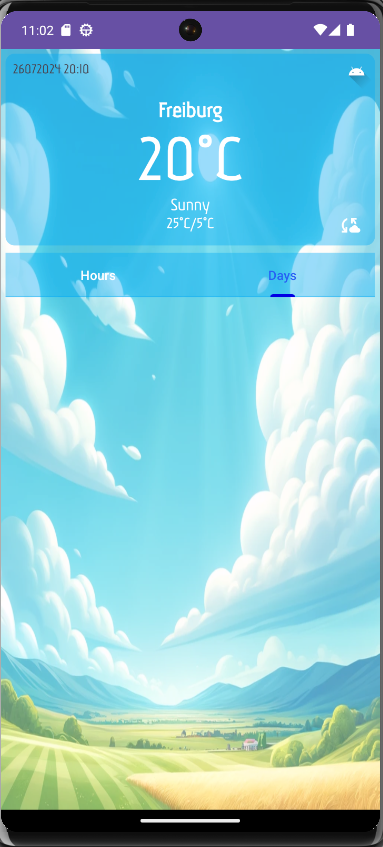
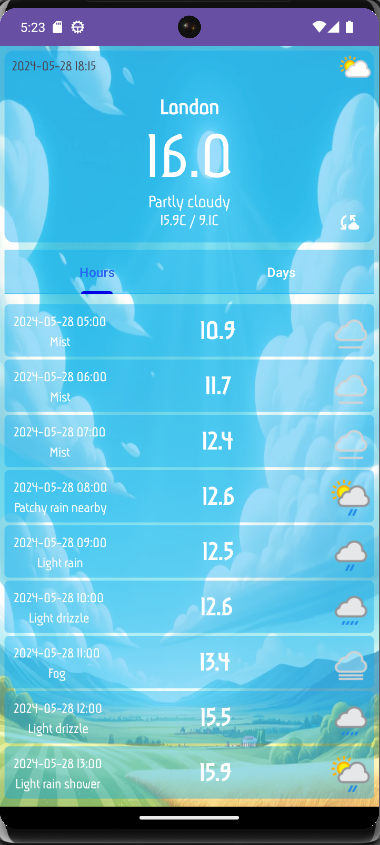
Main Card and Hours Fragment complete

diff --git a/app/src/main/java/com/example/weatherapp/fragments/MainFragment.kt b/app/src/main/java/com/example/weatherapp/fragments/MainFragment.kt
@@ -1,6 +1,7 @@
 package com.example.weatherapp.fragments
 
 import android.os.Bundle
+import android.util.Log
 import androidx.fragment.app.Fragment
 import android.view.LayoutInflater
 import android.view.View
@@ -8,12 +9,24 @@ import android.view.ViewGroup
 import android.widget.Toast
 import androidx.activity.result.ActivityResultLauncher
 import androidx.activity.result.contract.ActivityResultContracts
+import androidx.fragment.app.activityViewModels
+import com.android.volley.Request
+import com.android.volley.toolbox.StringRequest
+import com.android.volley.toolbox.Volley
+import com.example.weatherapp.Constants
+import com.example.weatherapp.MainViewModel
 import com.example.weatherapp.R
+import com.example.weatherapp.adapters.ViewPagerAdapter
 import com.example.weatherapp.databinding.FragmentMainBinding
+import com.example.weatherapp.models.WeatherModel
+import com.google.android.material.tabs.TabLayoutMediator
+import com.squareup.picasso.Picasso
+import org.json.JSONObject
 
 class MainFragment : Fragment() {
     private lateinit var pLauncher: ActivityResultLauncher<String>
     private lateinit var binding: FragmentMainBinding
+    private val model: MainViewModel by activityViewModels()
 
     override fun onCreateView(
         inflater: LayoutInflater, container: ViewGroup?,
@@ -26,6 +39,22 @@ class MainFragment : Fragment() {
     override fun onViewCreated(view: View, savedInstanceState: Bundle?) {
         super.onViewCreated(view, savedInstanceState)
         checkPermission()
+        initViewPager()
+        requestWeatherData("London")
+        updateCurrentCard()
+    }
+
+    private fun initViewPager(){
+        val listFragment = listOf(HoursFragment.newInstance(), DaysFragment.newInstance())
+        val adapter = ViewPagerAdapter(requireActivity(), listFragment)
+        binding.viewPagerMain.adapter = adapter
+        TabLayoutMediator(binding.tabLayout, binding.viewPagerMain){
+            tab, position ->
+            when(position){
+                0 -> tab.text = "Hours"
+                1 -> tab.text = "Days"
+            }
+        }.attach()
     }
 
     private fun permissionLauncher() {
@@ -40,6 +69,70 @@ class MainFragment : Fragment() {
         if (!isPermissionGranted(android.Manifest.permission.ACCESS_FINE_LOCATION)) {
             permissionLauncher()
             pLauncher.launch(android.Manifest.permission.ACCESS_FINE_LOCATION)
+        }
+    }
+
+    private fun requestWeatherData(city: String) {
+        val url = Constants.BASE_URL + "?key=" + Constants.API_KEY + "&q=" + city + "&days=3"
+        val queue = Volley.newRequestQueue(requireContext())
+        val request = StringRequest(Request.Method.GET, url, { result ->
+            parseWeatherData(result)
+        }, {
+            Log.e("MainFragment", it.message.toString())
+        })
+        queue.add(request)
+    }
+
+    private fun parseWeatherData(result: String) {
+        val mainObject = JSONObject(result)
+        val days =  parseDays(mainObject)
+        parseCurrentDate(mainObject, days[0])
+
+    }
+
+    private fun parseCurrentDate(mainObject: JSONObject, weatherModel: WeatherModel) {
+        val item = WeatherModel(
+            mainObject.getJSONObject("location").getString("name"),
+            mainObject.getJSONObject("current").getString("last_updated"),
+            mainObject.getJSONObject("current").getJSONObject("condition").getString("text"),
+            mainObject.getJSONObject("current").getString("temp_c"),
+            weatherModel.maxTemp,
+            weatherModel.minTemp,
+            mainObject.getJSONObject("current").getJSONObject("condition").getString("icon"),
+            weatherModel.hours,
+        )
+        model.liveDataCurrent.value = item
+    }
+
+    private fun parseDays(mainObject: JSONObject): List<WeatherModel>{
+        val list = ArrayList<WeatherModel>()
+        val daysArray = mainObject.getJSONObject("forecast").getJSONArray("forecastday")
+        val name = mainObject.getJSONObject("location").getString("name")
+        for (i in 0 until daysArray.length()){
+            val day = daysArray[i] as JSONObject
+            val item = WeatherModel(
+                name,
+                day.getString("date"),
+                day.getJSONObject("day").getJSONObject("condition").getString("text"),
+                "",
+                day.getJSONObject("day").getString("maxtemp_c"),
+                day.getJSONObject("day").getString("mintemp_c"),
+                day.getJSONObject("day").getJSONObject("condition").getString("icon"),
+                day.getJSONArray("hour").toString(),
+            )
+            list.add(item)
+        }
+        return list
+    }
+
+    private fun updateCurrentCard() = with(binding){
+        model.liveDataCurrent.observe(viewLifecycleOwner) {
+            tvDate.text = it.time
+            tvCity.text = it.city
+            tvCurrentTemp.text = it.currentTemp
+            tvCondition.text = it.condition
+            tvMaxMin.text = "${it.maxTemp}C / ${it.minTemp}C"
+            Picasso.get().load("https:" + it.imageUrl).into(ivWeather)
         }
     }
 

diff --git a/app/src/main/java/com/example/weatherapp/fragments/HoursFragment.kt b/app/src/main/java/com/example/weatherapp/fragments/HoursFragment.kt
@@ -1,0 +1,72 @@
+package com.example.weatherapp.fragments
+
+import android.os.Bundle
+import androidx.fragment.app.Fragment
+import android.view.LayoutInflater
+import android.view.View
+import android.view.ViewGroup
+import androidx.fragment.app.activityViewModels
+import androidx.recyclerview.widget.LinearLayoutManager
+import com.example.weatherapp.MainViewModel
+import com.example.weatherapp.R
+import com.example.weatherapp.adapters.ViewPagerAdapter
+import com.example.weatherapp.adapters.WeatherAdapter
+import com.example.weatherapp.databinding.FragmentHoursBinding
+import com.example.weatherapp.models.WeatherModel
+import org.json.JSONArray
+import org.json.JSONObject
+
+class HoursFragment : Fragment() {
+    private lateinit var binding: FragmentHoursBinding
+    private lateinit var adapter: WeatherAdapter
+    private val model: MainViewModel by activityViewModels()
+
+    override fun onCreateView(
+        inflater: LayoutInflater, container: ViewGroup?,
+        savedInstanceState: Bundle?
+    ): View? {
+        binding = FragmentHoursBinding.inflate(inflater, container, false)
+        return binding.root
+    }
+
+    override fun onViewCreated(view: View, savedInstanceState: Bundle?) {
+        super.onViewCreated(view, savedInstanceState)
+        intiRecyclerView()
+        model.liveDataCurrent.observe(viewLifecycleOwner){
+            adapter.submitList(getHoursList(it))
+        }
+    }
+
+    private fun intiRecyclerView() = with(binding){
+        rvHoursItems.layoutManager = LinearLayoutManager(requireContext())
+        adapter = WeatherAdapter()
+        rvHoursItems.adapter = adapter
+        adapter.submitList(listOf())
+    }
+
+    private fun getHoursList(item: WeatherModel): List<WeatherModel> {
+        val hoursArray = JSONArray(item.hours)
+        val list = ArrayList<WeatherModel>()
+        for (i in 0 until hoursArray.length()){
+            val jsonObject = hoursArray.getJSONObject(i)
+            val weatherModel = WeatherModel(
+                item.city,
+                (hoursArray[i] as JSONObject).getString("time"),
+                (hoursArray[i] as JSONObject).getJSONObject("condition").getString("text"),
+                (hoursArray[i] as JSONObject).getString("temp_c"),
+                "",
+                "",
+                (hoursArray[i] as JSONObject).getJSONObject("condition").getString("icon"),
+                "",
+            )
+            list.add(weatherModel)
+        }
+        return list
+    }
+
+
+    companion object {
+        @JvmStatic
+        fun newInstance() = HoursFragment()
+    }
+}

diff --git a/app/src/main/java/com/example/weatherapp/adapters/WeatherAdapter.kt b/app/src/main/java/com/example/weatherapp/adapters/WeatherAdapter.kt
@@ -1,0 +1,43 @@
+package com.example.weatherapp.adapters
+
+import android.view.LayoutInflater
+import android.view.View
+import android.view.ViewGroup
+import androidx.recyclerview.widget.DiffUtil
+import androidx.recyclerview.widget.ListAdapter
+import androidx.recyclerview.widget.RecyclerView
+import com.example.weatherapp.R
+import com.example.weatherapp.databinding.ListItemBinding
+import com.example.weatherapp.models.WeatherModel
+import com.squareup.picasso.Picasso
+
+class WeatherAdapter: ListAdapter<WeatherModel, WeatherAdapter.WeatherViewHolder>(WeatherDiffUtil()) {
+    class WeatherViewHolder(view: View) : RecyclerView.ViewHolder(view) {
+        private val binding = ListItemBinding.bind(view)
+        fun bind(weatherModel: WeatherModel) = with(binding) {
+            tvDateItemList.text = weatherModel.time
+            tvConditionListItem.text = weatherModel.condition
+            tvTempListItem.text = weatherModel.currentTemp
+            Picasso.get().load("https:" + weatherModel.imageUrl).into(ivListItem)
+        }
+    }
+
+    class WeatherDiffUtil : DiffUtil.ItemCallback<WeatherModel>() {
+        override fun areItemsTheSame(oldItem: WeatherModel, newItem: WeatherModel): Boolean {
+            return oldItem == newItem
+        }
+
+        override fun areContentsTheSame(oldItem: WeatherModel, newItem: WeatherModel): Boolean {
+            return oldItem == newItem
+        }
+    }
+
+    override fun onCreateViewHolder(parent: ViewGroup, viewType: Int): WeatherViewHolder {
+        val view = LayoutInflater.from(parent.context).inflate(R.layout.list_item, parent, false)
+        return WeatherViewHolder(view)
+    }
+
+    override fun onBindViewHolder(holder: WeatherViewHolder, position: Int) {
+        holder.bind(getItem(position))
+    }
+}

diff --git a/app/src/main/java/com/example/weatherapp/fragments/DaysFragment.kt b/app/src/main/java/com/example/weatherapp/fragments/DaysFragment.kt
@@ -1,0 +1,24 @@
+package com.example.weatherapp.fragments
+
+import android.os.Bundle
+import androidx.fragment.app.Fragment
+import android.view.LayoutInflater
+import android.view.View
+import android.view.ViewGroup
+import com.example.weatherapp.R
+
+class DaysFragment : Fragment() {
+
+    override fun onCreateView(
+        inflater: LayoutInflater, container: ViewGroup?,
+        savedInstanceState: Bundle?
+    ): View? {
+        // Inflate the layout for this fragment
+        return inflater.inflate(R.layout.fragment_days, container, false)
+    }
+
+    companion object {
+        @JvmStatic
+        fun newInstance() = DaysFragment()
+    }
+}

diff --git a/app/src/main/java/com/example/weatherapp/adapters/ViewPagerAdapter.kt b/app/src/main/java/com/example/weatherapp/adapters/ViewPagerAdapter.kt
@@ -1,0 +1,17 @@
+package com.example.weatherapp.adapters
+
+
+import androidx.fragment.app.Fragment
+import androidx.fragment.app.FragmentActivity
+import androidx.viewpager2.adapter.FragmentStateAdapter
+
+class ViewPagerAdapter(fragmentActivity: FragmentActivity, private val listFragment: List<Fragment>): FragmentStateAdapter(fragmentActivity){
+    override fun getItemCount(): Int {
+        return listFragment.size
+    }
+
+    override fun createFragment(position: Int): Fragment {
+        return listFragment[position]
+    }
+
+}

diff --git a/app/src/main/java/com/example/weatherapp/Constants.kt b/app/src/main/java/com/example/weatherapp/Constants.kt
@@ -2,5 +2,6 @@ package com.example.weatherapp
 
 object Constants {
     const val API_KEY: String = "dd1d40841456445683c140441242605"
-    const val BASE_URL: String = "https://api.weatherapi.com/v1/current.json"
+    const val BASE_URL: String = "https://api.weatherapi.com/v1/forecast.json"
+    //?key=dd1d40841456445683c140441242605&q=Freiburg&days=2&aqi=no&alerts=no
 }

diff --git a/app/src/main/java/com/example/weatherapp/MainViewModel.kt b/app/src/main/java/com/example/weatherapp/MainViewModel.kt
@@ -1,6 +1,10 @@
 package com.example.weatherapp
 
+import androidx.lifecycle.MutableLiveData
 import androidx.lifecycle.ViewModel
+import com.example.weatherapp.models.WeatherModel
 
 class MainViewModel: ViewModel() {
+    val liveDataCurrent = MutableLiveData<WeatherModel>()
+    val liveDataDays = MutableLiveData<List<WeatherModel>>()
 }

diff --git a/app/src/main/java/com/example/weatherapp/models/WeatherModel.kt b/app/src/main/java/com/example/weatherapp/models/WeatherModel.kt
@@ -1,0 +1,12 @@
+package com.example.weatherapp.models
+
+data class WeatherModel(
+    val city: String,
+    val time: String,
+    val condition: String,
+    val currentTemp: String,
+    val maxTemp: String,
+    val minTemp: String,
+    val imageUrl: String,
+    val hours: String,
+)
